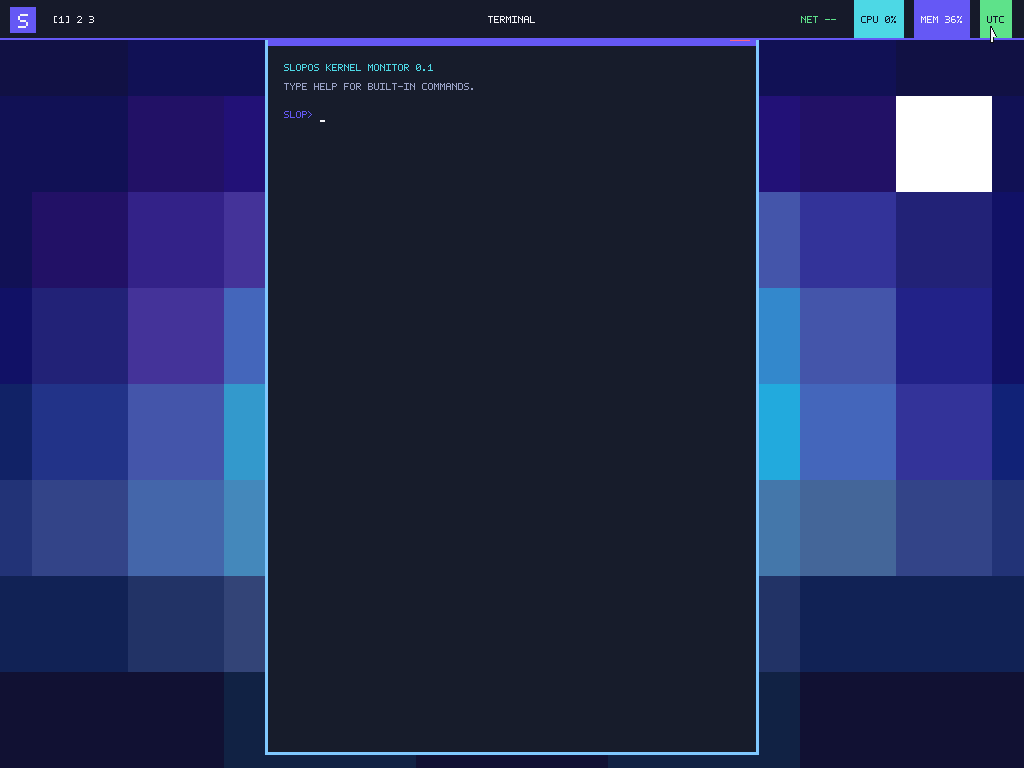
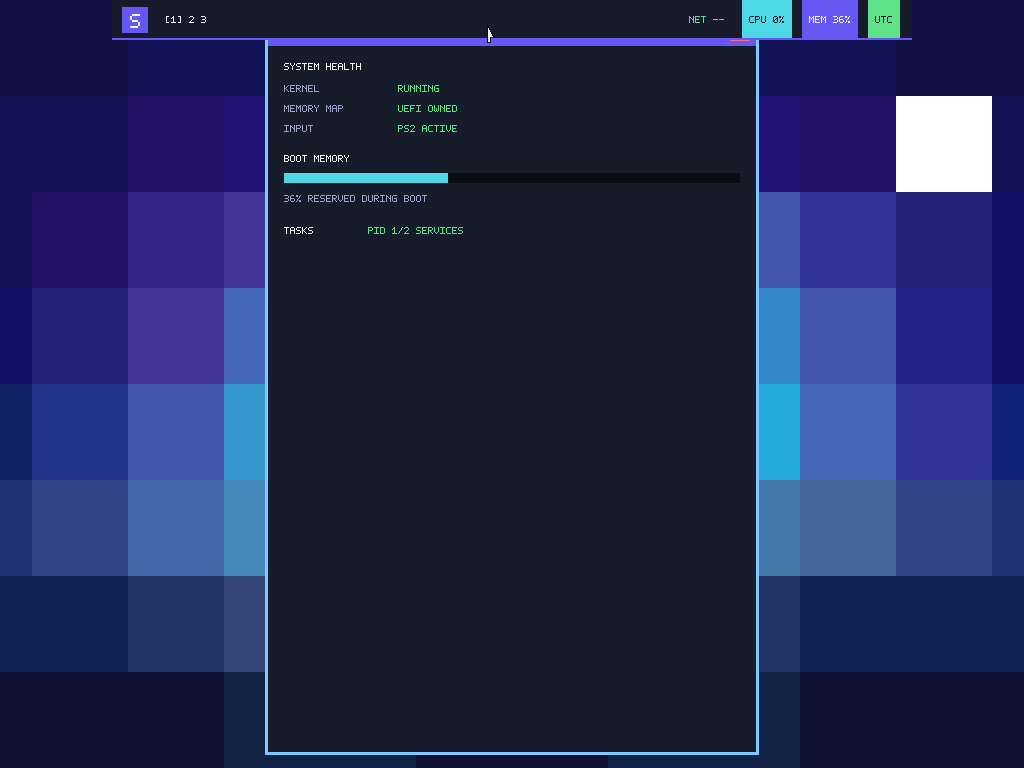
feat(desktop): support Waybar fixed width

diff --git a/crates/shell/src/waybar.rs b/crates/shell/src/waybar.rs
@@ -372,12 +372,14 @@ impl<'a> BarModuleConfigList<'a> {
 pub struct WaybarConfig<'a> {
     pub position: BarPosition,
     pub height: u16,
+    pub width: u16,
     pub spacing: u16,
     pub margin_top: i32,
     pub margin_right: i32,
     pub margin_bottom: i32,
     pub margin_left: i32,
     pub fixed_center: bool,
+    pub no_center: bool,
     pub layer: BarLayer,
     pub mode: BarMode,
     pub mode_name: &'a str,
@@ -402,12 +404,14 @@ impl Default for WaybarConfig<'_> {
         Self {
             position: BarPosition::Top,
             height: 30,
+            width: 0,
             spacing: 4,
             margin_top: 0,
             margin_right: 0,
             margin_bottom: 0,
             margin_left: 0,
             fixed_center: true,
+            no_center: false,
             layer: BarLayer::Bottom,
             mode: BarMode::Default,
             mode_name: "default",
@@ -439,6 +443,27 @@ impl<'a> WaybarConfig<'a> {
 
     pub const fn layer_is_above_windows(self) -> bool {
         matches!(self.layer, BarLayer::Top | BarLayer::Overlay)
+    }
+
+    pub fn horizontal_geometry(self, output_width: i32) -> (i32, i32) {
+        let available = output_width
+            .saturating_sub(self.margin_left)
+            .saturating_sub(self.margin_right)
+            .max(0);
+        if self.width <= 1 {
+            return (self.margin_left, available);
+        }
+        let width = i32::from(self.width).min(available);
+        let x = if width
+            .saturating_add(self.margin_left)
+            .saturating_add(self.margin_right)
+            < output_width
+        {
+            output_width.saturating_sub(width) / 2
+        } else {
+            self.margin_left
+        };
+        (x, width)
     }
 
     pub const fn visibility_state(self) -> bool {
@@ -781,6 +806,8 @@ impl<'a> JsonParser<'a> {
     const VISIBLE: u32 = 1 << 18;
     const ON_SIGUSR1: u32 = 1 << 19;
     const ON_SIGUSR2: u32 = 1 << 20;
+    const WIDTH: u32 = 1 << 21;
+    const NO_CENTER: u32 = 1 << 22;
 
     const fn new(input: &'a str) -> Self {
         Self {
@@ -824,6 +851,10 @@ impl<'a> JsonParser<'a> {
                                 return Err(BarConfigError::InvalidNumber);
                             }
                         }
+                        "width" => {
+                            mark_once(&mut fields, Self::WIDTH)?;
+                            config.width = self.u16_value()?;
+                        }
                         "spacing" => {
                             mark_once(&mut fields, Self::SPACING)?;
                             config.spacing = self.u16_value()?;
@@ -851,6 +882,13 @@ impl<'a> JsonParser<'a> {
                         "fixed-center" => {
                             mark_once(&mut fields, Self::FIXED_CENTER)?;
                             config.fixed_center = match self.next() {
+                                Token::Bool(value) => value,
+                                _ => return Err(BarConfigError::UnexpectedToken),
+                            };
+                        }
+                        "no-center" => {
+                            mark_once(&mut fields, Self::NO_CENTER)?;
+                            config.no_center = match self.next() {
                                 Token::Bool(value) => value,
                                 _ => return Err(BarConfigError::UnexpectedToken),
                             };
@@ -1470,9 +1508,11 @@ mod tests {
                 // Waybar-compatible top-level fields.
                 "position": "top",
                 "height": 40,
+                "width": 800,
                 "spacing": 8,
                 "margin": "1 2 3 4",
                 "fixed-center": false,
+                "no-center": true,
                 "layer": "top",
                 "exclusive": false,
                 "passthrough": true,
@@ -1500,6 +1540,7 @@ mod tests {
         .unwrap();
         assert_eq!(config.position, BarPosition::Top);
         assert_eq!(config.height, 40);
+        assert_eq!(config.width, 800);
         assert_eq!(config.spacing, 8);
         assert_eq!(
             (
@@ -1511,6 +1552,8 @@ mod tests {
             (1, 2, 3, 4)
         );
         assert!(!config.fixed_center);
+        assert!(config.no_center);
+        assert_eq!(config.horizontal_geometry(1024), (112, 800));
         assert_eq!(config.layer, BarLayer::Top);
         assert_eq!(config.mode, BarMode::Default);
         assert!(!config.exclusive);
@@ -1556,6 +1599,7 @@ mod tests {
         .unwrap();
         assert_eq!(config.position, BarPosition::Top);
         assert_eq!(config.height, 30);
+        assert_eq!(config.width, 0);
         assert_eq!(config.spacing, 4);
         assert_eq!(
             (
@@ -1567,6 +1611,8 @@ mod tests {
             (0, 0, 0, 0)
         );
         assert!(config.fixed_center);
+        assert!(!config.no_center);
+        assert_eq!(config.horizontal_geometry(1024), (0, 1024));
         assert_eq!(config.layer, BarLayer::Bottom);
         assert_eq!(config.mode, BarMode::Default);
         assert!(config.exclusive);
@@ -1605,7 +1651,10 @@ mod tests {
             r#"{ "margin": "1px" }"#,
             r#"{ "margin": 1.5 }"#,
             r#"{ "margin-left": 2147483648 }"#,
+            r#"{ "width": -1 }"#,
+            r#"{ "width": 65536 }"#,
             r#"{ "fixed-center": "false" }"#,
+            r#"{ "no-center": 1 }"#,
             r#"{ "exclusive": 1 }"#,
             r#"{ "layer": "background" }"#,
             r#"{ "mode": "bad mode" }"#,
@@ -1642,6 +1691,11 @@ mod tests {
             (-2, 5, 0, 0)
         );
         assert_eq!(individual_margin.reserved_top(), 28);
+        assert_eq!(individual_margin.horizontal_geometry(1000), (0, 995));
+        let fixed_width = parse_waybar_config(r#"{ "width": 800, "margin": "4 12" }"#).unwrap();
+        assert_eq!(fixed_width.horizontal_geometry(1024), (112, 800));
+        let clamped_width = parse_waybar_config(r#"{ "width": 1200, "margin": "4 12" }"#).unwrap();
+        assert_eq!(clamped_width.horizontal_geometry(1024), (12, 1000));
         for (input, expected) in [
             (r#"{ "margin": 7 }"#, (7, 7, 7, 7)),
             (r#"{ "margin": "1 2" }"#, (1, 2, 1, 2)),

diff --git a/kernel/src/desktop.rs b/kernel/src/desktop.rs
@@ -726,11 +726,20 @@ impl Desktop {
             );
         }
 
-        for module in self.bar.modules_center.iter() {
-            center_x = center_x.saturating_add(
-                self.render_bar_module(framebuffer, module, center_x, bar_y, baseline, bar_height)
+        if !self.bar.no_center {
+            for module in self.bar.modules_center.iter() {
+                center_x = center_x.saturating_add(
+                    self.render_bar_module(
+                        framebuffer,
+                        module,
+                        center_x,
+                        bar_y,
+                        baseline,
+                        bar_height,
+                    )
                     .saturating_add(i32::from(self.bar.spacing)),
-            );
+                );
+            }
         }
 
         for module in self.bar.modules_right.iter() {
@@ -794,13 +803,8 @@ impl Desktop {
     }
 
     fn bar_rect(&self) -> (i32, i32, i32, i32) {
-        let x = self.bar.margin_left;
+        let (x, width) = self.bar.horizontal_geometry(self.screen_width);
         let y = self.bar.margin_top;
-        let width = self
-            .screen_width
-            .saturating_sub(self.bar.margin_left)
-            .saturating_sub(self.bar.margin_right)
-            .max(0);
         (x, y, width, i32::from(self.bar.height))
     }
 
@@ -808,7 +812,11 @@ impl Desktop {
         let (bar_x, _, bar_width, _) = self.bar_rect();
         let left_x = bar_x.saturating_add(BAR_LEFT_START_X);
         let left_width = self.bar_modules_width(self.bar.modules_left);
-        let center_width = self.bar_modules_width(self.bar.modules_center);
+        let center_width = if self.bar.no_center {
+            0
+        } else {
+            self.bar_modules_width(self.bar.modules_center)
+        };
         let right_width = self.bar_modules_width(self.bar.modules_right);
         let right_x = bar_x
             .saturating_add(bar_width)
@@ -1344,6 +1352,10 @@ impl Desktop {
             self.bar.passthrough,
             self.bar.visible,
             self.bar.reserved_top()
+        ));
+        serialln(format_args!(
+            "SLOPOS-WAYBAR: layout configured_width={} no_center={} source={source}",
+            self.bar.width, self.bar.no_center
         ));
     }
 
@@ -2072,7 +2084,11 @@ impl Desktop {
         }
         let (left_x, center_x, right_x) = self.bar_module_origins();
         self.bar_workspace_in_modules(self.bar.modules_left, left_x, x)
-            .or_else(|| self.bar_workspace_in_modules(self.bar.modules_center, center_x, x))
+            .or_else(|| {
+                (!self.bar.no_center)
+                    .then(|| self.bar_workspace_in_modules(self.bar.modules_center, center_x, x))
+                    .flatten()
+            })
             .or_else(|| self.bar_workspace_in_modules(self.bar.modules_right, right_x, x))
     }
 
@@ -2124,7 +2140,11 @@ impl Desktop {
         }
         let (left_x, center_x, right_x) = self.bar_module_origins();
         self.bar_module_in_modules(self.bar.modules_left, left_x, x)
-            .or_else(|| self.bar_module_in_modules(self.bar.modules_center, center_x, x))
+            .or_else(|| {
+                (!self.bar.no_center)
+                    .then(|| self.bar_module_in_modules(self.bar.modules_center, center_x, x))
+                    .flatten()
+            })
             .or_else(|| self.bar_module_in_modules(self.bar.modules_right, right_x, x))
     }
 

diff --git a/docs/desktop-shell.md b/docs/desktop-shell.md
@@ -29,7 +29,7 @@ Config surface 的按钮或图形 monitor 的 `RELOAD` 命令会唤醒 block tas
 
 `make test-desktop-custom-config` 复制标准磁盘，在临时 ext4 副本中同时替换两份配置：3797-byte 默认 niri KDL 被改成单页上限内的 4082-byte 用户文件，把 Config 规则的 `open-maximized false`、`open-maximized-to-edges false`、`open-fullscreen false` 与 `open-focused false` 都覆盖为 `true`，把 app-specific `default-column-width` 从 0.5 改为 0.667、`default-window-height` 从 1.0 改为 0.5，并把 `default-column-display` 从 `normal` 改为 `tabbed`、加入 `focus-ring { off; }`、4 px `#ffb86c` border、softness 8/spread 2/offset `(6,4)`/active `#000c` shadow、`draw-border-with-background false` 与 `opacity 0.75`；904-byte Waybar 文件则替换为可解析的 1392-byte JSONC（增加用户注释与 `margin: "4 12"`/`fixed-center: false`/`layer: "top"`/`exclusive: true`，把 `niri/window`/`niri/workspaces` 分别移到 left/center，并给 clock 加上 alternate format、三键及两向 scroll action），再从 OVMF 启动。geometry marker 记录 bar surface 为 x=12/y=4/1000×40、top layer 与 44px exclusive reserve；config generation 1 随后证明 `open-focused true` 让后台 workspace 2 的 Config 成为活动窗口，并按底层到顶层记录 x=16/y=60/992×338 column maximize、x=0/y=44/1024×724 edge maximize 与 x=0/y=0/1024×768 fullscreen。首张截图确认 fullscreen 窗口覆盖兄弟窗但 top Waybar 仍在其上合成，空白 surface click marker 又证明 `passthrough=false`；`171c2b` 像素则证明 fullscreen window 忽略 opacity rule。真实 `Mod+Shift+F` 先恢复 edge 几何，`Mod+M` 再恢复 992×338，随后两次 `Mod+F` 产生 656→992 px marker；独立截图证明按 `(1024−16)×0.667−16` 恢复 x=184 的规则列宽，同时按 `(768−44−16)×0.5−16` 保留 338 px 规则高度与 tab 指示条。Config 的青色 focus ring 已关闭，4 px active border 为 `ffb86c`；`draw-border-with-background false` 把 border 限制在 surface 外侧，因此脚本要求 x=200/800、y=350 分别为 Aurora 不同采样块经 0.75-alpha surface 合成后的 `222247`/`222a4b`，并在外边缘 x=182/y=350 精确读到 `ffb86c`。阴影外缘 x=844/y=200 的 `0a0a1f` 验证 softness/offset/spread/alpha；bar 的 x=0/12、y=20 与 x=20、y=2/4 四个像素则验证横向与顶部 margin。这九点证明逐通道 blend、空心边框、shadow raster、Waybar surface geometry 与 top composition，而非只验证 marker。日志还要求 IntelliMouse 握手报告 `wheel=true`，PID 2 两轮都读到 1392 bytes、policy generation 1/2 都携带非默认 Waybar hash `0xb3e52394b278b991`、服务最后阻塞在 `config-applied after_generation=1`。退出 fullscreen 后，center block 根据左侧 Config/Terminal title 宽度动态移动；真实 PS/2 仍按新位置点击数字 `1`/`2`/`1` 往返，证明 `fixed-center false` 与其他 workspace 的旧 Terminal 局部焦点都生效。终端输入未执行的 `ABO`，左击右侧 clock 同时把 `UTC` 切成 `UTC ALT` 并触发 STATUS，再补成 `ABOUT` 执行；右击触发 HELP、中击触发 SWWW QUERY，向上/向下滚轮分别切到 Sunset/Aurora，第二次左击执行 STATUS 并切回 `UTC`。
 
-同一回归随后从标准 rootfs 再启动 1189-byte fixture，以 `mode: "slop-overlay"` 选择 custom `modes` 项并把有效状态覆盖为 overlay layer、`exclusive=false`、`passthrough=true`、visible；零 reserve 让 Terminal/System 从 y=16 开始，bar 在 y=39 的 `6558f5` 底边像素覆盖窗口 titlebar。真实左击命中 clock 下方的 System 关闭按钮并关闭 System，同时没有产生 clock action，直接证明 custom mode 的 pointer 穿透。两次启动都拒绝 exit/FATAL，宿主最后运行 `e2fsck -fn`。这个 QEMU 回归证明当前支持有界非默认 niri/Waybar 文件、app-specific 几何/显示/decoration/opening state、Waybar margin/fixed-center/exclusive/layer/custom mode/passthrough、module placement/alternate format/点击/三键/滚轮 action 与输入保持，但不据此声称 Sway IPC、POSIX signal transport 或完整配置兼容。
+同一回归随后从标准 rootfs 再启动 1230-byte fixture，以 `width: 800` 把 bar surface 居中限制到 x=112..912，以 `no-center: true` 完全移除 center module，再以 `mode: "slop-overlay"` 选择 custom `modes` 项并把有效状态覆盖为 overlay layer、`exclusive=false`、`passthrough=true`、visible；零 reserve 让 Terminal/System 从 y=16 开始，bar 在 x=600/y=39 的 `6558f5` 底边像素覆盖窗口 titlebar。x=100/112、y=10 的 `111144`/`161a2a` 锁定 fixed-width surface 左边界，x=488/y=16 的纯背景锁定 center text 未被实例化。真实左击在 x=487 的 bar surface 内命中下方 Terminal 关闭按钮并关闭 Terminal，同时没有产生 module action，直接证明受限宽度 custom mode 的 pointer 穿透。两次启动都拒绝 exit/FATAL，宿主最后运行 `e2fsck -fn`。这个 QEMU 回归证明当前支持有界非默认 niri/Waybar 文件、app-specific 几何/显示/decoration/opening state、Waybar width/no-center/margin/fixed-center/exclusive/layer/custom mode/passthrough、module placement/alternate format/点击/三键/滚轮 action 与输入保持，但不据此声称 Sway IPC、POSIX signal transport 或完整配置兼容。
 
 标准交互回归另从 monitor 依次输入两次 `WAYBAR SIGUSR1`。默认 `on-sigusr1=toggle` 首次把 effective mode 从 `default` 切到 `invisible`，移除 bar surface/pointer region 与 40 px exclusive reserve，并即时令 tiled/floating working area 从 40 扩到 0；第二次恢复保存的 `default` mode 与 40 px reserve。串口 marker 锁定 `default→invisible→default`、`state_visible=false→true` 和 `reserved_top=40→0→40`，两张截图分别以窗口上移 40 px 及 bar/间隙像素恢复验证真实合成结果。parser 同时支持 `on-sigusr1`/`on-sigusr2` 的 `show`、`hide`、`toggle`、`reload`、`noop`，默认分别为 toggle/reload；未知字符串按 Waybar 默认动作回退。`start_hidden` 会保留原 configured mode，随后 show 能恢复它；自定义 `invisible` 仍可覆盖隐藏态的 layer/exclusive/passthrough/visible。当前 `WAYBAR SIGUSR1|SIGUSR2` 是 early monitor 的显式触发边界，不是假装已经存在 Unix process signal。
 
@@ -200,7 +200,7 @@ JSONC parser 支持 `//` 与 `/* */` comment、trailing comma、最多 16 个 mo
 
 VFS 中选中的 CSS 使用 Waybar 同样的 GTK CSS selector 命名；仓库默认源是 `assets/waybar-style.css`。无分配 parser 支持 `*`、`window#waybar` 和 module `#id` 的 source-order cascade、逗号 selector list，以及 `color`、`background[-color]`、`padding`、`margin`、`border-bottom: Npx solid #rrggbb`；`transparent` background 和 1/2/3/4-value px box shorthand 可用。renderer 将样式纳入左右/居中宽度计算，当前截图中的 CPU/Memory/Clock 色块、padding 和 bar 底边框都来自 CSS。字段与几何语义依据 [Waybar bar configuration manual](https://github.com/Alexays/Waybar/blob/master/man/waybar.5.scd.in)、[官方 `config.jsonc`](https://github.com/Alexays/Waybar/blob/master/resources/config.jsonc)、[默认 `style.css`](https://github.com/Alexays/Waybar/blob/master/resources/style.css) 与 [niri/workspaces module manual](https://github.com/Alexays/Waybar/blob/master/man/waybar-niri-workspaces.5.scd)。
 
-4 项 JSONC/format 与 3 项 CSS 测试覆盖 parse、format/action option、replacement、margin shorthand/逐边优先级、fixed-center/exclusive default、bottom/top/overlay layer、四个官方 mode preset、最多 8 个 custom `modes`、`start_hidden`/`visible`、passthrough、signal action、cascade、transparent、box shorthand 和拒绝边界。JSONC/CSS 已从 VFS 成对参与原子 generation reload。top-level 未指定 mode 时使用 default 并叠加显式 layer/exclusive/passthrough/visible；`dock`、`hide`、`invisible`、`overlay` 和 custom mode 都依 [Waybar bar implementation](https://github.com/Alexays/Waybar/blob/master/src/bar.cpp) 成组覆盖这四项状态。内建名可被 `modes` 对象局部覆盖；新名称以 bottom/false/false/false 为基线；未知选中名回退 default；`start_hidden` 选择可配置的 invisible 作为初态，但保存 configured mode 供 show 恢复。模式名限 32-byte ASCII 字母数字、`-`/`_`；`on-sigusr1`/`on-sigusr2` 运行时可 show/hide/toggle/reload/noop，但没有 Sway IPC 驱动的任意 mode 切换。early compositor 在普通窗/fullscreen 之前画 bottom bar，在它们之后画 top/overlay bar；pointer hit-test 遵循同一 z-order，`passthrough=true` 会跳过整个 bar input region。visibility action 改变 exclusive reserve 时，所有 workspace 的 tiled 几何立即重算，floating rect 与会话内 remembered rect 也会夹回新 working area。custom QEMU 用四个像素锁定 x/y surface margin、用 44 px working-area reserve 锁定 exclusive，并在 left title 宽度变化时按非固定 center 的新位置完成 workspace 三次点击；top bar 在 fullscreen 上方吞掉空白 surface click。第二次短启动又以 y=39 的 bar 像素和 System close marker 证明 overlay 合成与 click-through；标准交互则证明 SIGUSR1 toggle 的隐藏/恢复。当前 registry 包含 `niri/workspaces`、`niri/window`、`custom/launcher`、`network`、`cpu`、`memory`、`clock`：CPU/Memory 的初始值来自 `/sbin/slop-shell` 发布的 snapshot，workspace/window 仍由 kernel niri 状态机提供，network/clock 仍是固定 kernel 值。interval 被验证并保留为 provider 更新策略，但没有常驻用户 provider 或真实 network/CPU/RTC polling。module 的 alternate-format bit 以 config index 有界保存；匹配点击会先切换格式再执行同一按键 action，随后重算 region width 与 hit-test，配置 generation swap 会像重建 Waybar module 一样复位这些 bits。workspace 左击是 registry 中该 module 的直接行为，只识别完整 `{value}` label 内当前固定容量最多四个 workspace 的单字符数字。其他 module 的左/右/中键和滚轮会分别读取五个 action option，保留用户当前输入，经 ASCII 大写化后进入同一个受限桌面命令分派器；当前允许 `HELP`、`STATUS`、`ABOUT`、`CLEAR`、`RELOAD`、`WAYBAR SIGUSR1|SIGUSR2`、`SWWW-DAEMON` 和 `SWWW ...`，显式拒绝 `FAULT`、`RELOAD BAD` 与任意 shell command。带修饰键且命中 niri 全局 bind 的滚轮不会再传给 bar；未匹配的普通滚轮才由 Waybar module 消费。Super+右键仍优先进入 niri 列缩放，不触发 bar action。尚无 Sway IPC、POSIX signal delivery、Waybar `smooth-scrolling-threshold`、POSIX shell、Pango markup/strftime、format-icons/state、完整 GTK CSS/alpha blend、per-output bar、tray、network/audio/battery backend 或 niri IPC module。parser 接受 bottom/left/right position，但 early framebuffer renderer 当前只允许 top，并在发布 VFS generation 前拒绝其他位置。
+4 项 JSONC/format 与 3 项 CSS 测试覆盖 parse、format/action option、replacement、fixed width 居中、no-center、margin shorthand/逐边优先级、fixed-center/exclusive default、bottom/top/overlay layer、四个官方 mode preset、最多 8 个 custom `modes`、`start_hidden`/`visible`、passthrough、signal action、cascade、transparent、box shorthand 和拒绝边界。JSONC/CSS 已从 VFS 成对参与原子 generation reload。top-level 未指定 mode 时使用 default 并叠加显式 layer/exclusive/passthrough/visible；`dock`、`hide`、`invisible`、`overlay` 和 custom mode 都依 [Waybar bar implementation](https://github.com/Alexays/Waybar/blob/master/src/bar.cpp) 成组覆盖这四项状态。内建名可被 `modes` 对象局部覆盖；新名称以 bottom/false/false/false 为基线；未知选中名回退 default；`start_hidden` 选择可配置的 invisible 作为初态，但保存 configured mode 供 show 恢复。模式名限 32-byte ASCII 字母数字、`-`/`_`；top bar 的 `width` 为 0/1 时保持横向双边 anchor，值大于 1 时在 output 中居中并限制 surface/module origin/hit-test，超出可用宽度则夹到 margin 内；`no-center` 同时跳过 center module 的绘制与输入；`on-sigusr1`/`on-sigusr2` 运行时可 show/hide/toggle/reload/noop，但没有 Sway IPC 驱动的任意 mode 切换。early compositor 在普通窗/fullscreen 之前画 bottom bar，在它们之后画 top/overlay bar；pointer hit-test 遵循同一 z-order，`passthrough=true` 会跳过整个 bar input region。visibility action 改变 exclusive reserve 时，所有 workspace 的 tiled 几何立即重算，floating rect 与会话内 remembered rect 也会夹回新 working area。custom QEMU 第一轮用四个像素锁定 x/y surface margin、用 44 px working-area reserve 锁定 exclusive，并在 left title 宽度变化时按非固定 center 的新位置完成 workspace 三次点击；top bar 在 fullscreen 上方吞掉空白 surface click。第二次短启动又以 x=112..912 surface 边界、center 背景、y=39 的 bar 像素和 Terminal close marker 证明 fixed width、no-center、overlay 合成与 click-through；标准交互则证明 SIGUSR1 toggle 的隐藏/恢复。当前 registry 包含 `niri/workspaces`、`niri/window`、`custom/launcher`、`network`、`cpu`、`memory`、`clock`：CPU/Memory 的初始值来自 `/sbin/slop-shell` 发布的 snapshot，workspace/window 仍由 kernel niri 状态机提供，network/clock 仍是固定 kernel 值。interval 被验证并保留为 provider 更新策略，但没有常驻用户 provider 或真实 network/CPU/RTC polling。module 的 alternate-format bit 以 config index 有界保存；匹配点击会先切换格式再执行同一按键 action，随后重算 region width 与 hit-test，配置 generation swap 会像重建 Waybar module 一样复位这些 bits。workspace 左击是 registry 中该 module 的直接行为，只识别完整 `{value}` label 内当前固定容量最多四个 workspace 的单字符数字。其他 module 的左/右/中键和滚轮会分别读取五个 action option，保留用户当前输入，经 ASCII 大写化后进入同一个受限桌面命令分派器；当前允许 `HELP`、`STATUS`、`ABOUT`、`CLEAR`、`RELOAD`、`WAYBAR SIGUSR1|SIGUSR2`、`SWWW-DAEMON` 和 `SWWW ...`，显式拒绝 `FAULT`、`RELOAD BAD` 与任意 shell command。带修饰键且命中 niri 全局 bind 的滚轮不会再传给 bar；未匹配的普通滚轮才由 Waybar module 消费。Super+右键仍优先进入 niri 列缩放，不触发 bar action。尚无 Sway IPC、POSIX signal delivery、Waybar `expand-left`/`expand-center`/`expand-right` 与 `smooth-scrolling-threshold`、POSIX shell、Pango markup/strftime、format-icons/state、完整 GTK CSS/alpha blend、per-output bar、tray、network/audio/battery backend 或 niri IPC module。parser 接受 bottom/left/right position，但 early framebuffer renderer 当前只允许 top，并在发布 VFS generation 前拒绝其他位置。
 
 这里的 Super+右键 compositor resize 优先级只适用于 bar 不接收该坐标的情况；位于窗口前方且 `passthrough=false` 的 top/overlay bar 会像其他 pointer button 一样先吞掉它，`passthrough=true` 或被普通窗口覆盖的 bottom bar 才把它交给下方窗口。
 

diff --git a/docs/status.md b/docs/status.md
@@ -4,7 +4,7 @@
 
 | 规格范围 | 状态 | 当前证据与边界 |
 |---|---|---|
-| 原生图形桌面 | 部分实现 | QEMU 中三个 surface 已进入独立 workspace 的 niri 式 tiled strip + floating layer；浮窗始终盖在 tile 上且不随 viewport 滚动，KDL toggle、显式 floating/tiling move、切换或显式 layer focus、有序 `default-column-width`/`default-window-height`/`default-column-display`/`open-floating`/`default-floating-position`/window `focus-ring`/`border`/`shadow`/`draw-border-with-background`/`opacity`/`open-focused`/`open-maximized`/`open-maximized-to-edges`/`open-fullscreen`、方向 move、标题栏移动与 pointer resize 已实现。规则初始宽高同时作用于 tiled/floating，动态 display 作用于 opening、拆列、单窗跨 workspace 和 floating→tiling；focus ring 只标示 active window，border 为所有普通窗选择 active/inactive 色，shadow 支持 offset/spread/softness/draw-behind 与 RGBA active/inactive 色；非全屏 opacity 对后方 decoration/background 做逐通道 alpha blend，background-mode 可选择实色填充或 surface 外空心边，全屏强制 1.0 并省略 decoration。custom 实机回归证明 `open-focused true` 会让 Config 激活后台 workspace，同时保留 main 的旧 Terminal 局部焦点；Waybar 4/12px margin 与 44px exclusive reserve 让 fullscreen 依次恢复为 x=0/y=44/1024×724 edge maximize、x=16/y=60/992×338 column maximize 与 x=184/656×338 的 app-specific 初始尺寸，并按 window rule 关闭 Config focus ring、启用 4 px 橙色空心 border、软阴影与 0.75 opacity。非固定 center 又在左右 block 宽度变化后完成 workspace 点击，top layer 在 fullscreen 上方保持可见并吞掉非 passthrough surface click；第二次 `slop-overlay` custom mode 启动则把 reserve 归零并让左击穿透 bar 关闭 System。`default-floating-position` 随新 working area 产生右下 24px 浮窗，移动后的 rect 经 tiling 往返仍恢复。tiled 部分另有 normal/tabbed column、preset/explicit width+height、column+edge maximize、single/focused/visible center、available-width expand、固定/方向 consume+expel、focus/reorder、动态 workspace 与 rule。`fullscreen-window` 可让 tiled/floating focused surface 无装饰覆盖完整 output 与兄弟窗，并在退出后恢复原 layer 和精确几何；bottom Waybar 被 fullscreen 覆盖，top/overlay Waybar 仍在其上合成。workspace reorder 又会整体保留名称、两层 layout、fullscreen/focus 与 previous 身份。官方 PageUp/PageDown aliases、150 ms 双包冷却与四组 Mod+IntelliMouse workspace/column wheel bindings 均已在裸机验证。PID 2 `/sbin/slop-shell` 仍作为常驻 provider/policy 服务跨 reload 休眠与恢复；compositor、surface 与 renderer 是 kernel early mechanism。 |
+| 原生图形桌面 | 部分实现 | QEMU 中三个 surface 已进入独立 workspace 的 niri 式 tiled strip + floating layer；浮窗始终盖在 tile 上且不随 viewport 滚动，KDL toggle、显式 floating/tiling move、切换或显式 layer focus、有序 `default-column-width`/`default-window-height`/`default-column-display`/`open-floating`/`default-floating-position`/window `focus-ring`/`border`/`shadow`/`draw-border-with-background`/`opacity`/`open-focused`/`open-maximized`/`open-maximized-to-edges`/`open-fullscreen`、方向 move、标题栏移动与 pointer resize 已实现。规则初始宽高同时作用于 tiled/floating，动态 display 作用于 opening、拆列、单窗跨 workspace 和 floating→tiling；focus ring 只标示 active window，border 为所有普通窗选择 active/inactive 色，shadow 支持 offset/spread/softness/draw-behind 与 RGBA active/inactive 色；非全屏 opacity 对后方 decoration/background 做逐通道 alpha blend，background-mode 可选择实色填充或 surface 外空心边，全屏强制 1.0 并省略 decoration。custom 实机回归证明 `open-focused true` 会让 Config 激活后台 workspace，同时保留 main 的旧 Terminal 局部焦点；Waybar 4/12px margin 与 44px exclusive reserve 让 fullscreen 依次恢复为 x=0/y=44/1024×724 edge maximize、x=16/y=60/992×338 column maximize 与 x=184/656×338 的 app-specific 初始尺寸，并按 window rule 关闭 Config focus ring、启用 4 px 橙色空心 border、软阴影与 0.75 opacity。非固定 center 又在左右 block 宽度变化后完成 workspace 点击，top layer 在 fullscreen 上方保持可见并吞掉非 passthrough surface click；第二次 `slop-overlay` custom mode 启动又以 width=800 把 surface 居中到 x=112..912、以 no-center 移除中栏、把 reserve 归零，并让 surface 内左击穿透 bar 关闭 Terminal。`default-floating-position` 随新 working area 产生右下 24px 浮窗，移动后的 rect 经 tiling 往返仍恢复。tiled 部分另有 normal/tabbed column、preset/explicit width+height、column+edge maximize、single/focused/visible center、available-width expand、固定/方向 consume+expel、focus/reorder、动态 workspace 与 rule。`fullscreen-window` 可让 tiled/floating focused surface 无装饰覆盖完整 output 与兄弟窗，并在退出后恢复原 layer 和精确几何；bottom Waybar 被 fullscreen 覆盖，top/overlay Waybar 仍在其上合成。workspace reorder 又会整体保留名称、两层 layout、fullscreen/focus 与 previous 身份。官方 PageUp/PageDown aliases、150 ms 双包冷却与四组 Mod+IntelliMouse workspace/column wheel bindings 均已在裸机验证。PID 2 `/sbin/slop-shell` 仍作为常驻 provider/policy 服务跨 reload 休眠与恢复；compositor、surface 与 renderer 是 kernel early mechanism。 |
 | Rust 实现语言 | 已实现并验证（当前代码范围） | loader、kernel、UI、输入和脚本所对应的 SlopOS 源码均为 Rust；x86 汇编限于 port/interrupt/CR3/CPL transition 边界。 |
 | UEFI 引导 | 已实现并验证 | 独立 loader 加载 ELF kernel、Rust userspace ELF 校验副本、ACPI、GOP、bootstrap image、memory map，调用 `ExitBootServices` 并跳入内核；实际 PID 1 bytes 后续来自 ext4 root。 |
 | 异步内核 | 部分实现 | 三任务 `Future` executor、task-ready bit queue、RawWaker、PIT timer、PS/2 input 与 virtio block INTx→waker→completion 已在 QEMU 运行；PID 1/2 的同步 `openat/read/write/close` 会保存各自 user frame、转为 Blocked 并返回 block task 异步等待 I/O，completion 再转为 Runnable、恢复对应 CR3/frame，而不是 busy-wait。100 Hz tick 还会在 CPL3 保存完整 interrupt frame并返回 block-task scheduler，kernel future 自身仍为 cooperative。动态 task arena、timer wheel、locks、cancellation、通用 backpressure 和 SMP 尚未实现。 |
@@ -14,7 +14,7 @@
 | VFS 与文件描述符 | 部分实现 | `no_std` path/mount/fd crate 有 5 项宿主测试；QEMU 把 ext4 挂到 `/` 并取得两个实际 user image。PID 1/2 的独立 fd table 在交错执行中同时各自取得 fd 3 读取配置；PID 1 另以 `O_RDWR` + `lseek/write/read` 对 inode 31 完成跨两页的可逆 64-byte patch并显式 close。PID 2 每次有效 config generation 都重新 open/read/close Waybar 与 swww；swww image broker 另让同一个 block task 按命令路径跨两个 block 读取 inode 30 的 6144-byte PNG。kernel probe fd 另可 EOF 单块 append/truncate，并以读写模式打开刚创建的空文件。mount/backing object 仍是单一 block task 专用，用户 copy 限于已知 code/two-page stack mappings 与 256 bytes，尚非通用 POSIX VFS。 |
 | 设备与驱动 | 部分实现 | GOP、COM1、QEMU debugcon、PS/2 键鼠可用，IntelliMouse ID 3/4 协商后可解码四字节滚轮包并回退标准三字节包；校验 XSDT/MADT，自有 GDT/IDT、xAPIC/IOAPIC、100 Hz PIT；PCI/modern virtio-blk 支持 read/write/flush。抢占产生的合法 cache 交错会改变 clean-boot 绝对请求数，测试核对 `requests = interrupts + 1` 且 top-half/queue interrupt 相等。没有通用 descriptor allocator、MSI-X、其他设备类或 application processor。 |
 | 图形系统与 Wayland | 部分实现 | framebuffer renderer、niri 式 tiled/floating workspace/keyboard+wheel bind/cooldown/ordered open+focus+width+height+display+focus-ring+border+shadow+background-mode+opacity+maximize+fullscreen rule/normal+tabbed stack/fixed+directional consume/expel/focus+reorder+explicit/preset resize+column/edge maximize+fullscreen+center/expand/direct move、首末列 focus/reorder、完整 workspace reorder，以及语义分离的整列/单窗跨 workspace 转移可用；Waybar JSONC height/spacing/margin/fixed-center/exclusive/layer/preset+custom mode/start_hidden/visible/passthrough/on-sigusr1+on-sigusr2 action + normal/alternate format + format-alt-click + 受限三键/滚轮 action + CSS 顶栏及 workspace 点击、swww daemon state/CLI/P3+P6 PNM/non-interlaced+Adam7 的 1/2/4/8/16-bit 灰度、8/16-bit 灰度透明/RGB/RGBA及 1/2/4/8-bit indexed palette+`tRNS` PNG/clear/crop-fit-no-stretch/fill/crop-gravity/filter/CPU transition（含 wipe angle、wave 宽高、grow/outer position、invert-y、小数 duration×fps 有界采样与 cubic Bezier easing）与 8 KiB root VFS path load 可用。49 项 shell + 5 项 protocol 测试及真实 custom niri 聚焦/几何/decoration/fullscreen 三级恢复、Waybar surface/work-area/center/top-over-fullscreen/overlay-click-through、Mod+IntelliMouse、workspace identity reorder、full-output restore、strip-boundary、column/window transfer、floating/tabbed/跨 reload/action/样式/异步 PNG 换图回归通过。仍无可连接 Wayland transport/shared surface buffer、client-driven xdg fullscreen/maximize、Waybar Sway IPC/POSIX signal delivery、真实 hardware provider/POSIX shell action/完整 GTK CSS；PID 2 是 policy/provider，不是用户态 compositor、独立 bar surface 或 layer-shell client。 |
-| 声明式配置 | 部分实现 | niri KDL、Waybar JSONC/CSS 与 swww environment 按 user/system/fallback 顺序从 root VFS 发现；双 static bank 会先验证四份文本，再按 generation 原子发布。交互测试已验证 config generation 1→2 唤醒 PID 2、policy generation 2→3，以及非法 CSS 保留 generation 2且不唤醒服务；custom-config 回归同时注入单页上限内的 4082-byte niri 与 1392-byte Waybar override，验证 ordered niri window rule 的实际焦点、几何、显示、decoration/alpha/fullscreen 例外、三级恢复与浮动位置记忆，并验证 Waybar signed margin/fixed-center/exclusive/top layer、PID 2 有界分块 hash/连续发布、left/center module placement、alternate format 和三键/双向滚轮 action；1189-byte custom `slop-overlay` fixture 另验证 mode object 展开、零 reserve 与 pointer passthrough。仍无文件 watcher/inotify、普通配置编辑器、结构化 diff，配置发现/parser 也仍属于 kernel service。 |
+| 声明式配置 | 部分实现 | niri KDL、Waybar JSONC/CSS 与 swww environment 按 user/system/fallback 顺序从 root VFS 发现；双 static bank 会先验证四份文本，再按 generation 原子发布。交互测试已验证 config generation 1→2 唤醒 PID 2、policy generation 2→3，以及非法 CSS 保留 generation 2且不唤醒服务；custom-config 回归同时注入单页上限内的 4082-byte niri 与 1392-byte Waybar override，验证 ordered niri window rule 的实际焦点、几何、显示、decoration/alpha/fullscreen 例外、三级恢复与浮动位置记忆，并验证 Waybar signed margin/fixed-center/exclusive/top layer、PID 2 有界分块 hash/连续发布、left/center module placement、alternate format 和三键/双向滚轮 action；1230-byte custom `slop-overlay` fixture 另验证 width=800 的居中 surface、no-center、mode object 展开、零 reserve 与 surface 内 pointer passthrough。仍无文件 watcher/inotify、普通配置编辑器、结构化 diff，配置发现/parser 也仍属于 kernel service。 |
 | 文本编辑器 | 尚未实现 | kernel monitor 只编辑当前命令行，不是普通文本或配置文件编辑器。 |
 | `slopd` | 尚未实现 | 当前 `/sbin/slop-init` 只是固定 ABI probe，没有 unit、dependency graph、service manager 或 supervision。 |
 | eBPF | 部分实现 | 独立 `no_std` crate 提供 8-byte instruction decode、无分配 verifier、ALU64/前向 branch/512-byte stack/helper 子集解释器；10 项宿主测试与内核返回 42 均已验证。没有 ELF loader、map、program type、attach point、权限模型或 JIT。 |

diff --git a/docs/known-issues.md b/docs/known-issues.md
@@ -8,7 +8,7 @@
 - window `focus-ring` 与 `border` 都支持 layout 默认值及有序 exact `app-id` 逐属性覆盖，包括 on/off、整数 width 与 active/inactive `#rrggbb[aa]` 固色。focus ring 只绘制 active window；border 为所有普通窗口选 active/inactive 色。`draw-border-with-background true|false` 也按有序 window rule 覆盖：无 SSD surface 默认 true，让半透明 surface 显示实色 decoration 背景；false 则将 border/focus ring 限制到 surface 外，border 启用时 focus ring 始终位于其外侧。尚无 gradient、urgent color 或 SSD/CSD heuristic 协商；早期 renderer 也不为 border 扩大 layout reserved geometry，column/edge maximize 的 decoration 隐藏还没有完整 niri 状态细分。
 - window `shadow` 已按 niri 默认值实现 layout 与 ordered exact `app-id` rule 的 on/off、softness、正负 spread、offset、draw-behind-window、`#rgb[a]`/`#rrggbb[aa]` active/inactive color；inactive 未配置时使用 active 的 75% alpha，fullscreen 不绘制 shadow。early framebuffer 使用有界 CPU 方框距离与二次 alpha falloff，不是 niri 的 GPU Gaussian rounded-rectangle shader；尚无 geometry corner radius、CSD shadow clip、颜色空间插值或 output scale。
 - window `opacity` 已按有序 exact `app-id` 规则动态解析并 clamp，非全屏 surface 用千分之一精度与后方 decoration/background 做 rounded RGB alpha blend，fullscreen 强制不透明。它仍只处理当前三个内核绘制 surface，没有 client 自带 alpha、subsurface/popup 的逐 surface 叠加、动态 matcher、`toggle-window-rule-opacity`、动画期间 opacity 插值或颜色管理。
-- niri KDL、Waybar JSONC/CSS 与 swww environment 已按 user/system/fallback 路径从 root VFS 加载，支持显式原子 reload 和 parse-before-swap rollback；`/sbin/slop-shell` 会在 4096/512-byte 上限内流式读取系统 Waybar/swww 文件，以 40-byte commit 连续提交实际文件摘要，并通过 32-byte policy/config event 跨 generation 休眠与恢复。独立 QEMU 回归验证了非默认 1392-byte Waybar JSONC 与 1189-byte custom overlay fixture，但没有普通配置编辑器、文件 watcher/inotify、per-user session 或通用跨进程配置服务。顶部栏已有 height/spacing、signed CSS shorthand/逐边 surface margin、fixed-center、exclusive reserve、bottom/top/overlay layer、四个官方 mode preset、最多 8 个 32-byte ASCII 名称的 custom `modes`、`start_hidden`/`visible`、`on-sigusr1`/`on-sigusr2` action 与 pointer passthrough、常用 module normal/alternate format、format-alt-click、受限左/右/中键与上下滚轮 action、颜色/box/border CSS 子集；custom mode 与官方实现一样覆盖 layer/exclusive/passthrough/visible，内建名可被局部覆盖，未知选中名回退 default，`start_hidden` 初始选择可配置的 invisible 并保留 configured mode 供 show 恢复。CPU/Memory 初值来自用户态 snapshot，其他 provider 仍固定；没有 Sway IPC/POSIX signal transport、任意运行时 mode 切换、真实 polling、Pango、完整 GTK CSS、smooth-scroll threshold、POSIX shell 或 per-output。swww 风格状态机支持纯色 clear、crop/fit/no/stretch、fill/crop-gravity、显式 Nearest/Bilinear/三个高阶 filter 名称、wipe angle、grow/outer bottom-origin position、invert-y、小数秒 duration×fps 有界采样、万分位 cubic Bezier easing、定点 wave 宽高与最多 8 KiB 的 root VFS P3/P6 PNM 或 PNG path load；PNG decoder 校验 chunk CRC 与 zlib Adler-32，覆盖 stored/fixed/dynamic DEFLATE、连续多 IDAT、filter 0–4、non-interlaced/Adam7 的 1/2/4/8/16-bit 灰度、8/16-bit 灰度透明/RGB/RGBA、1/2/4/8-bit indexed palette，以及 palette/灰度/RGB `tRNS`，透明通道合成到黑底。双 bank 会在完整动画后才释放旧图，missing/invalid 文件保留当前图。CatmullRom/Mitchell/Lanczos3 已分别使用定点 4×4/4×4/6×6 separable convolution 核；限制是默认 filter 暂为 Nearest，Lanczos3 的 sinc 由 32 段 Q16 正弦表近似；相对路径固定相对 `/usr/share/slopos` 且由大写终端规范化为小写、不同尺寸图片的 transition 回退为 `none`；压缩输入受 8 KiB、解压 scratch/RGB 受 24 KiB/2,048-pixel bank 限制，也没有独立常驻 IPC/layer-shell process、JPEG/GIF、animated image、无界缓存、多 output 或精确墙钟帧时序，wipe/wave angle 也还是整数线性近似。
+- niri KDL、Waybar JSONC/CSS 与 swww environment 已按 user/system/fallback 路径从 root VFS 加载，支持显式原子 reload 和 parse-before-swap rollback；`/sbin/slop-shell` 会在 4096/512-byte 上限内流式读取系统 Waybar/swww 文件，以 40-byte commit 连续提交实际文件摘要，并通过 32-byte policy/config event 跨 generation 休眠与恢复。独立 QEMU 回归验证了非默认 1392-byte Waybar JSONC 与 1230-byte custom overlay fixture，但没有普通配置编辑器、文件 watcher/inotify、per-user session 或通用跨进程配置服务。顶部栏已有 height/width/spacing、no-center、signed CSS shorthand/逐边 surface margin、fixed-center、exclusive reserve、bottom/top/overlay layer、四个官方 mode preset、最多 8 个 32-byte ASCII 名称的 custom `modes`、`start_hidden`/`visible`、`on-sigusr1`/`on-sigusr2` action 与 pointer passthrough、常用 module normal/alternate format、format-alt-click、受限左/右/中键与上下滚轮 action、颜色/box/border CSS 子集；custom mode 与官方实现一样覆盖 layer/exclusive/passthrough/visible，内建名可被局部覆盖，未知选中名回退 default，`start_hidden` 初始选择可配置的 invisible 并保留 configured mode 供 show 恢复。CPU/Memory 初值来自用户态 snapshot，其他 provider 仍固定；没有 Sway IPC/POSIX signal transport、任意运行时 mode 切换、expand-left/center/right、真实 polling、Pango、完整 GTK CSS、smooth-scroll threshold、POSIX shell 或 per-output。swww 风格状态机支持纯色 clear、crop/fit/no/stretch、fill/crop-gravity、显式 Nearest/Bilinear/三个高阶 filter 名称、wipe angle、grow/outer bottom-origin position、invert-y、小数秒 duration×fps 有界采样、万分位 cubic Bezier easing、定点 wave 宽高与最多 8 KiB 的 root VFS P3/P6 PNM 或 PNG path load；PNG decoder 校验 chunk CRC 与 zlib Adler-32，覆盖 stored/fixed/dynamic DEFLATE、连续多 IDAT、filter 0–4、non-interlaced/Adam7 的 1/2/4/8/16-bit 灰度、8/16-bit 灰度透明/RGB/RGBA、1/2/4/8-bit indexed palette，以及 palette/灰度/RGB `tRNS`，透明通道合成到黑底。双 bank 会在完整动画后才释放旧图，missing/invalid 文件保留当前图。CatmullRom/Mitchell/Lanczos3 已分别使用定点 4×4/4×4/6×6 separable convolution 核；限制是默认 filter 暂为 Nearest，Lanczos3 的 sinc 由 32 段 Q16 正弦表近似；相对路径固定相对 `/usr/share/slopos` 且由大写终端规范化为小写、不同尺寸图片的 transition 回退为 `none`；压缩输入受 8 KiB、解压 scratch/RGB 受 24 KiB/2,048-pixel bank 限制，也没有独立常驻 IPC/layer-shell process、JPEG/GIF、animated image、无界缓存、多 output 或精确墙钟帧时序，wipe/wave angle 也还是整数线性近似。
 - `initrd.slp` 仍不是文件系统；独立 ext4 disk 已有 fd 原位写与严格单块 EOF append/truncate、最多八 tag 的 active JBD2 transaction、block/inode allocation、线性目录 create→fd open→unlink 和启动时 replay。PID 1 已能用 `O_RDONLY`/`O_RDWR openat`、read/write/lseek/close 进入这条异步路径，但 scanner 当前只接受零 feature、单个非 wrap transaction；用户 mutation 只覆盖已分配 regular-file block，尚无通用 namespace syscall、多块或非连续 growth、revoke、多 transaction、通用权限或 btrfs。
 - 已有 frame allocator、自有 early page table、bump heap、容量 4 的 process table、每 slot fd table，以及从 root `/sbin/slop-init`、`/sbin/slop-shell` 读取后经各自 Linux initial stack 与 `SYSCALL/SYSRETQ` 运行的 PID 1/2 user address space；文件 syscall 可按 PID 保存/恢复 frame、转为 Blocked 并异步等待 block Future，`sched_yield` 会 cooperative round-robin，100 Hz PIT 则会保存完整 CPL3 interrupt frame并切换两个独立 CR3。read/write copy 已验证跨两个 virtual stack page 和两个独立 physical frame。PID 1 当前常驻 blocked `wait4`，PID 2 常驻 desktop event，因此两套 page table/code/stack 由 runtime 保留；exit/reap、zombie/immediate 与每进程 7-frame 回收仍由 process 状态机和宿主测试覆盖。当前仍强制 init 的单 `PT_LOAD` ELF 与 BootInfo 引导副本相同，user copy 限于一页 code/两页 stack 和 256 bytes，也没有任意路径 exec、独立 thread/kernel stack、kernel preemption、SMP run queue、通用 wait selector/options/orphan adoption、广泛 VFS syscall或通用 mapping 回收。
 - kernel 仍使用 2 MiB RWX identity huge page；PID 1 的 private page table 已隔离 supervisor kernel map，并区分 user read-only code 与 user-writable stack，但尚未施加 NX、完整 W^X 或细粒度 kernel section 权限。
